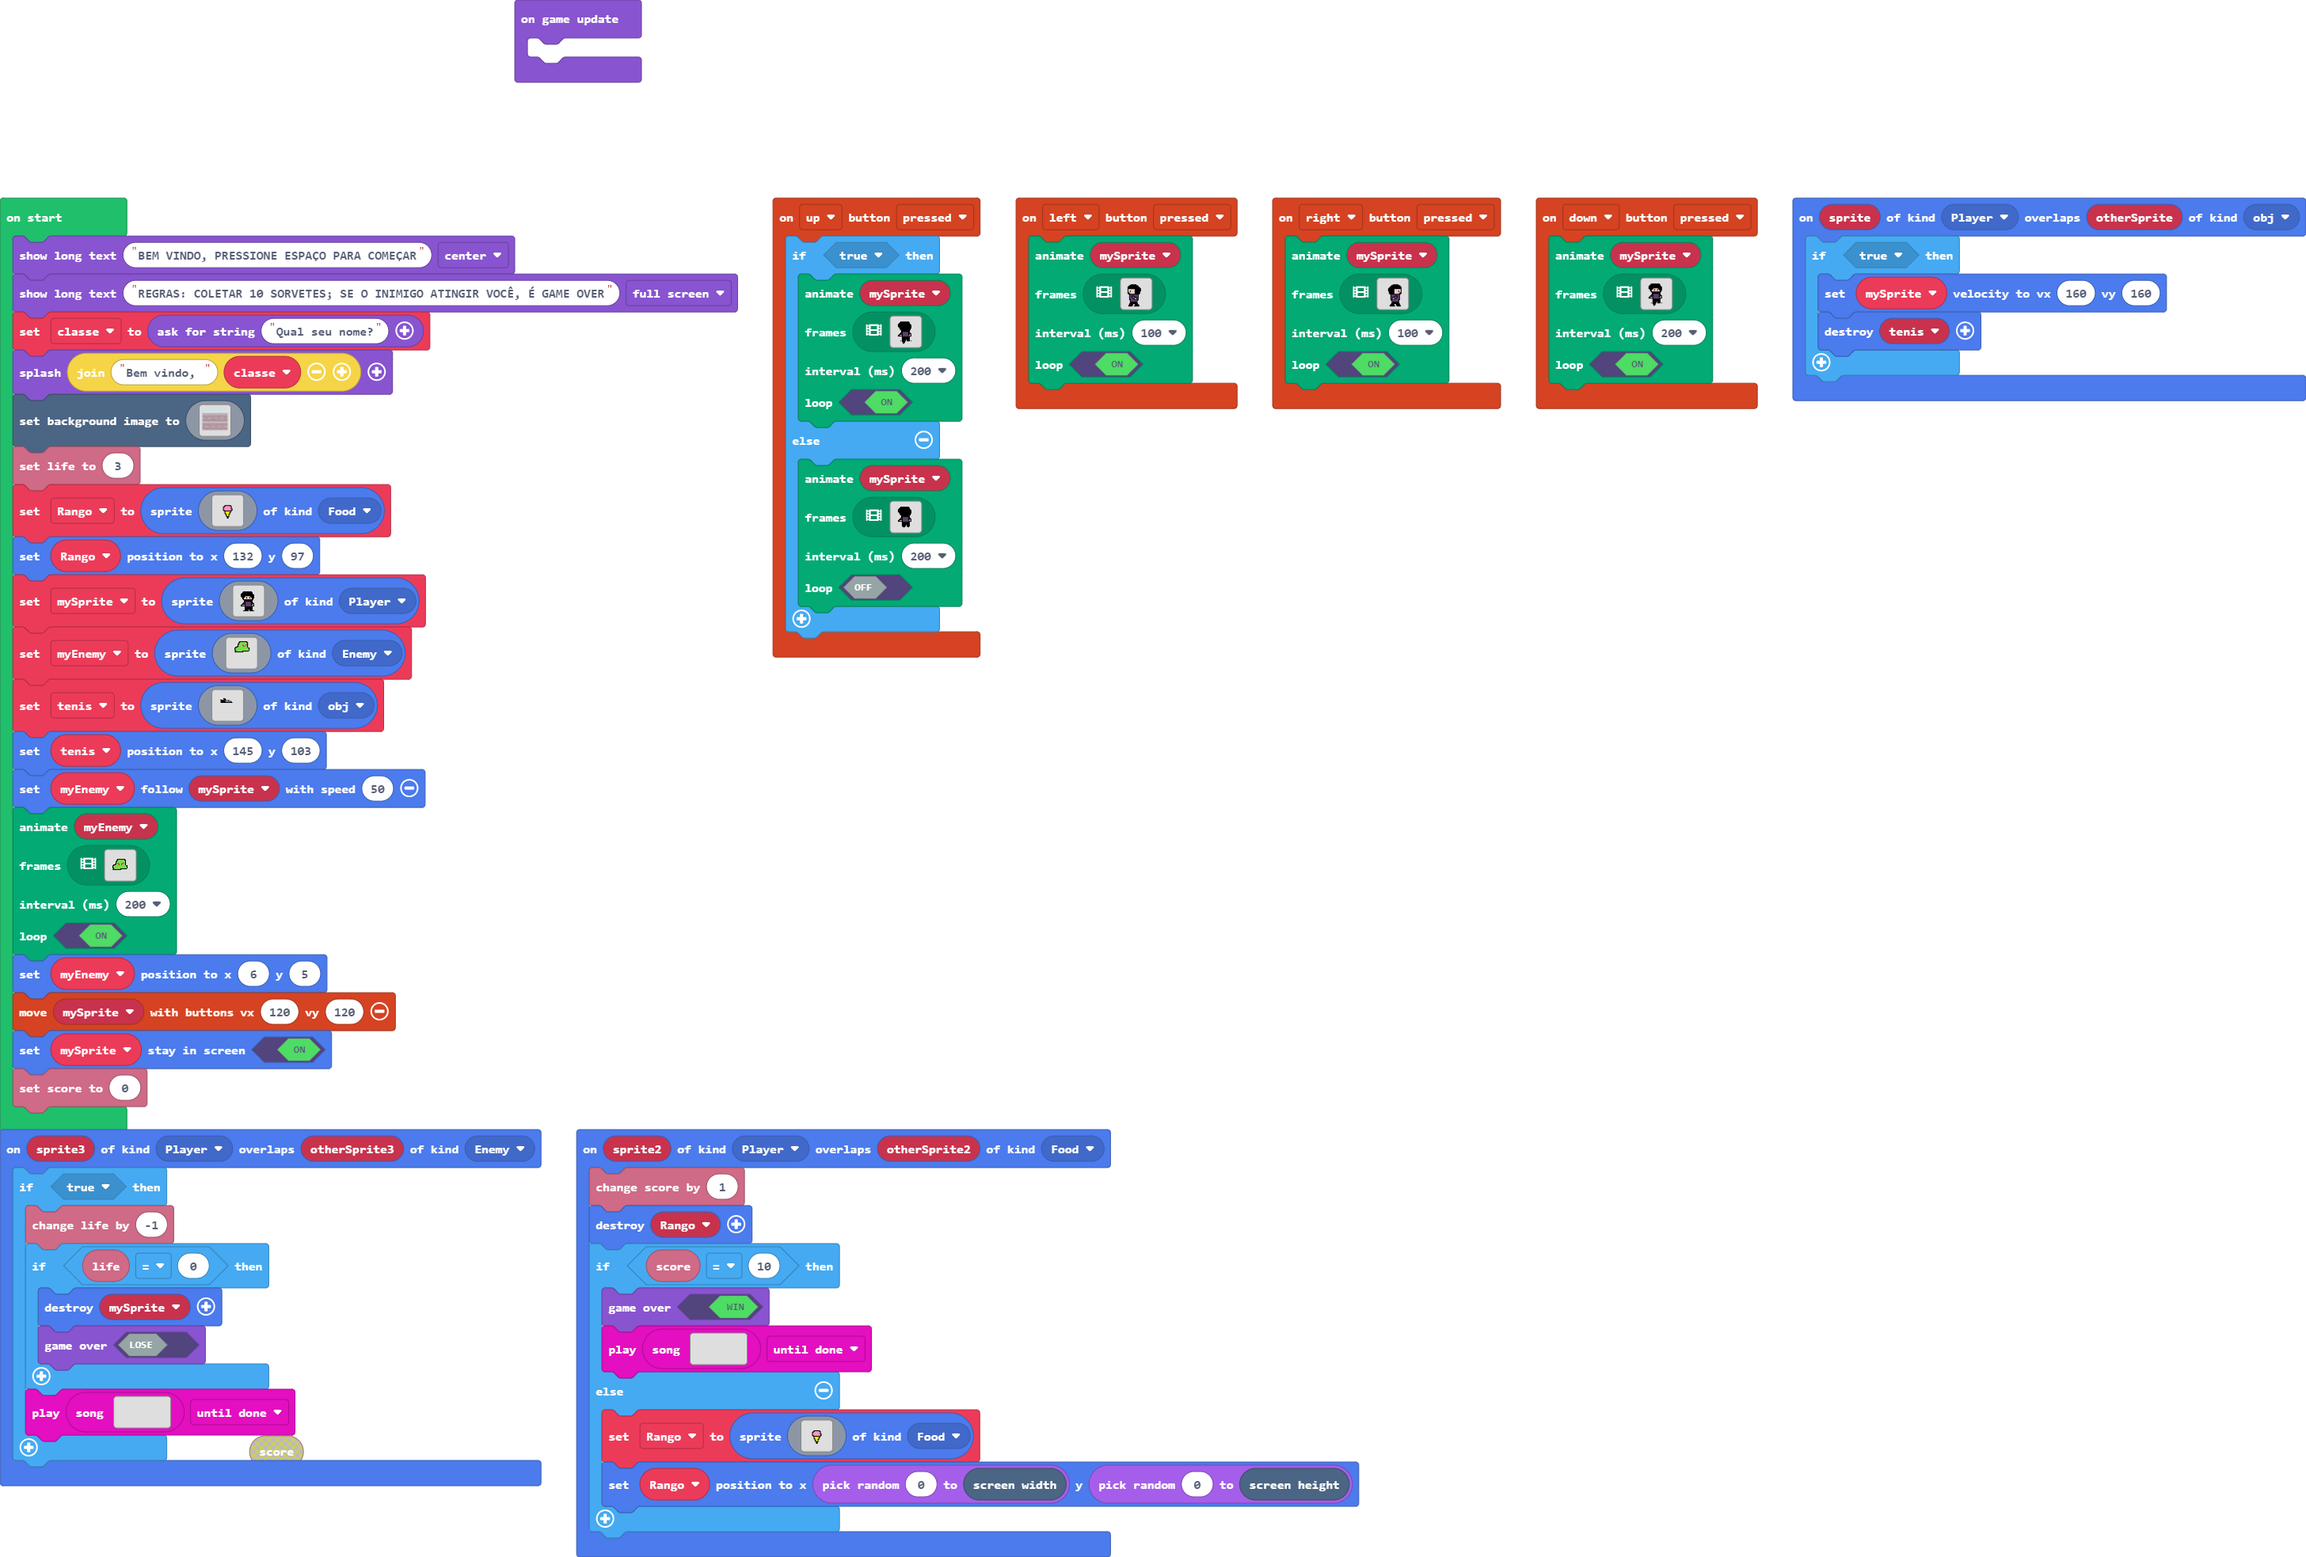
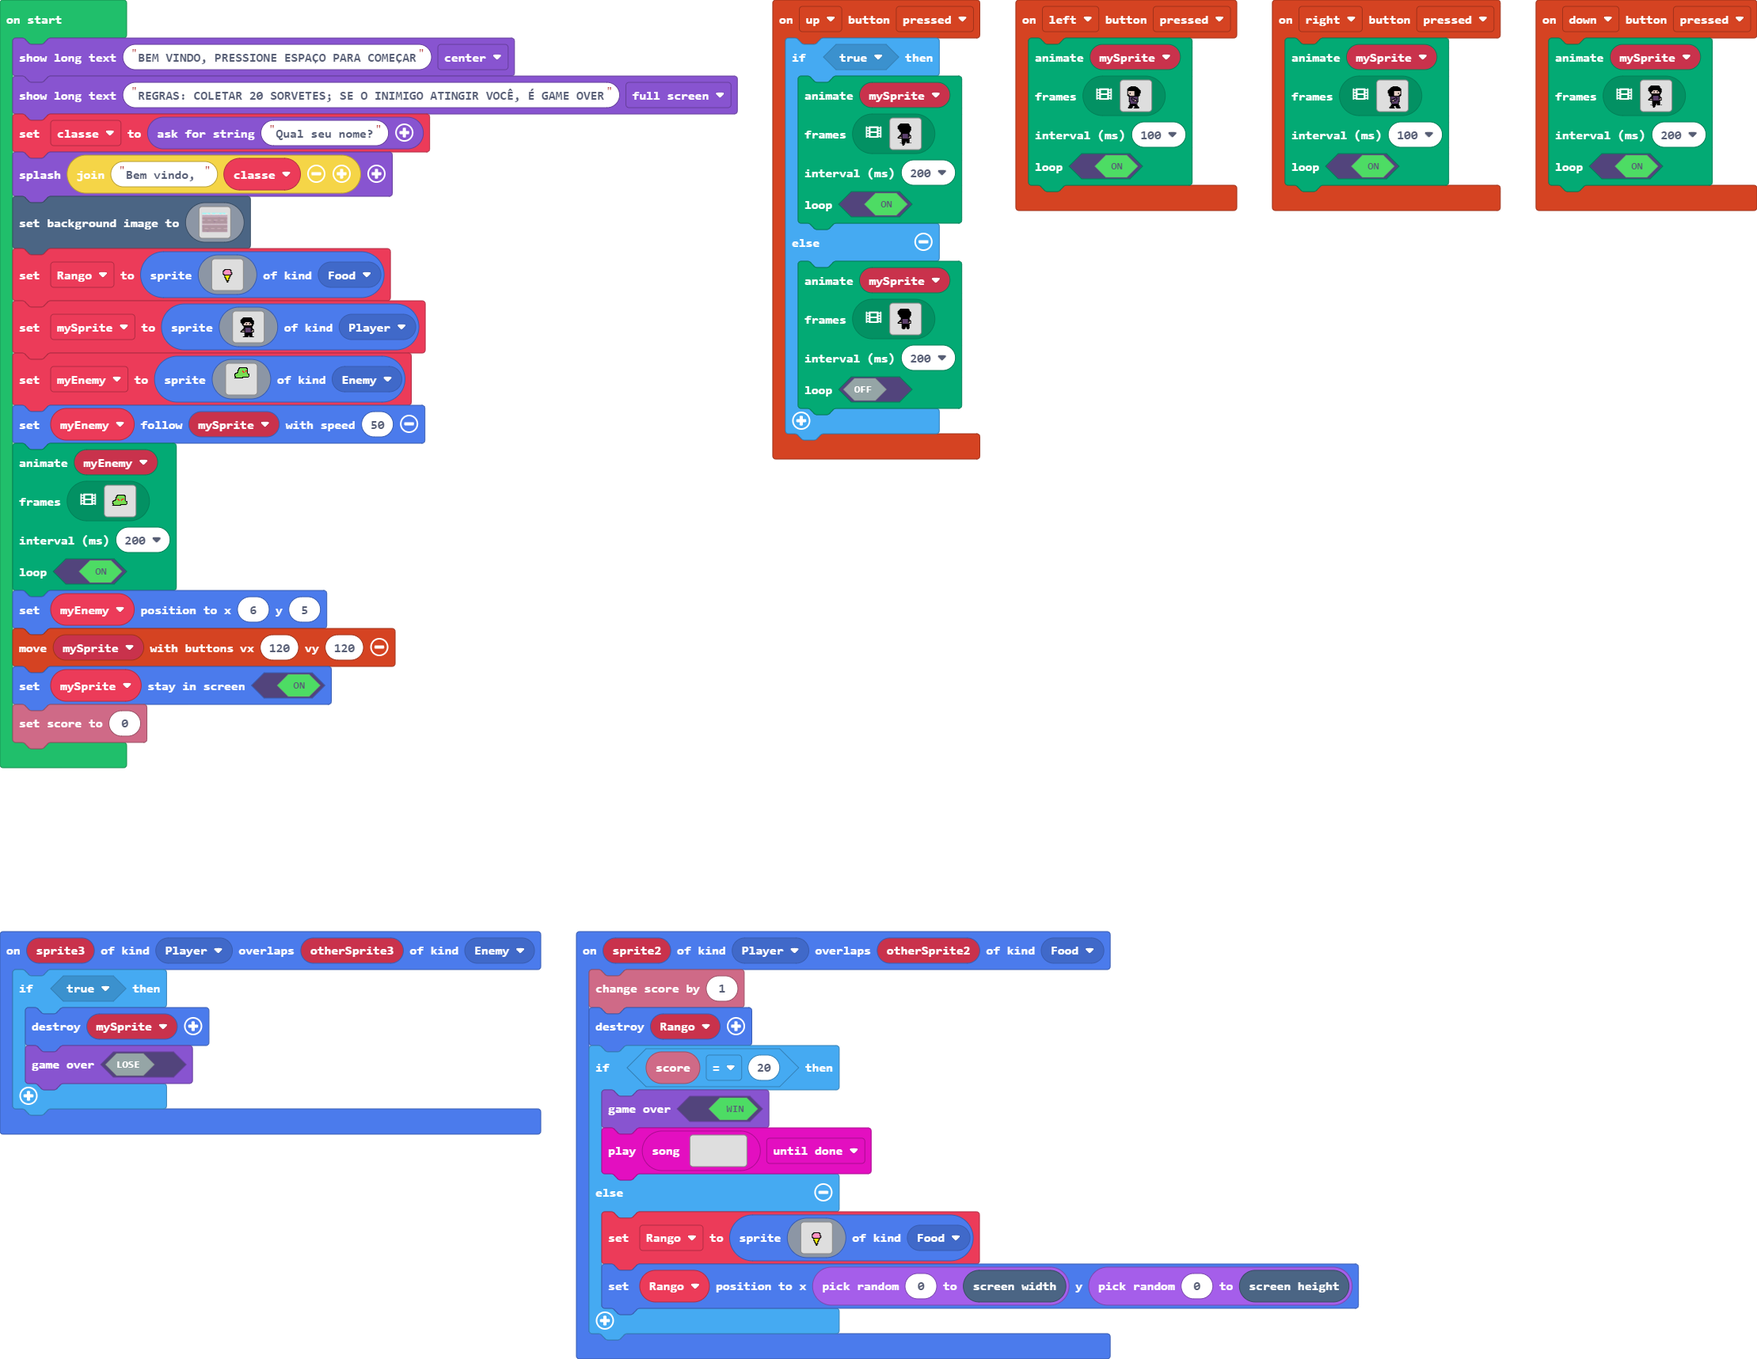
Update main.blocks, main.ts

diff --git a/main.ts b/main.ts
@@ -224,20 +224,10 @@ controller.left.onEvent(ControllerButtonEvent.Pressed, function () {
     true
     )
 })
-sprites.onOverlap(SpriteKind.Player, SpriteKind.obj, function (sprite, otherSprite) {
-    if (true) {
-        mySprite.setVelocity(160, 160)
-        sprites.destroy(tenis)
-    }
-})
 sprites.onOverlap(SpriteKind.Player, SpriteKind.Enemy, function (sprite3, otherSprite3) {
     if (true) {
-        info.changeLifeBy(-1)
-        if (info.life() == 0) {
-            sprites.destroy(mySprite)
-            game.gameOver(false)
-        }
-        music.play(music.createSong(hex`00780004080200`), music.PlaybackMode.UntilDone)
+        sprites.destroy(mySprite)
+        game.gameOver(false)
     }
 })
 controller.right.onEvent(ControllerButtonEvent.Pressed, function () {
@@ -391,7 +381,7 @@ controller.down.onEvent(ControllerButtonEvent.Pressed, function () {
 sprites.onOverlap(SpriteKind.Player, SpriteKind.Food, function (sprite2, otherSprite2) {
     info.changeScoreBy(1)
     sprites.destroy(Rango)
-    if (info.score() == 10) {
+    if (info.score() == 20) {
         game.gameOver(true)
         music.play(music.createSong(hex`00780004080200`), music.PlaybackMode.UntilDone)
     } else {
@@ -432,11 +422,10 @@ sprites.onOverlap(SpriteKind.Player, SpriteKind.Food, function (sprite2, otherSp
         Rango.setPosition(randint(0, scene.screenWidth()), randint(0, scene.screenHeight()))
     }
 })
-let tenis: Sprite = null
 let mySprite: Sprite = null
 let Rango: Sprite = null
 game.showLongText("BEM VINDO, PRESSIONE ESPAÇO PARA COMEÇAR", DialogLayout.Center)
-game.showLongText("REGRAS: COLETAR 10 SORVETES; SE O INIMIGO ATINGIR VOCÊ, É GAME OVER", DialogLayout.Full)
+game.showLongText("REGRAS: COLETAR 20 SORVETES; SE O INIMIGO ATINGIR VOCÊ, É GAME OVER", DialogLayout.Full)
 let classe = game.askForString("Qual seu nome?")
 game.splash("Bem vindo, " + classe)
 scene.setBackgroundImage(img`
@@ -561,7 +550,6 @@ scene.setBackgroundImage(img`
     bbbbbbbbbbbbbbbbbbbbbbbbbbbbbbbbbbbbbbccbbbbbbbbbbbbbbbbbbbbbbbbbbbbbbbbbbbbbbbbbbbbbbbbbbbbbbbbbbbbbbbbbbbbbbbbbbbbbbbbbbbbbbbbbbbbbbbbbbbbbbbbbbbbbbbbbbbbbbbb
     bbbbbbbbbbbbbbbbbbbbbbbbbbbbbbbbbbbbbbbbbbbbbbbbbbbbbbbbbbbbbbbbbbbbbbbbbbbbbbbbbbbbbbbbbbbbbbbbbbbbbbbbbbbbbbbbbbbbbbbbbbbbbbbbbbbbbbbbbbbbbbbbbbbbbbbbbbbbbbbb
     `)
-info.setLife(3)
 Rango = sprites.create(img`
     ................................
     ................................
@@ -596,7 +584,6 @@ Rango = sprites.create(img`
     ................................
     ................................
     `, SpriteKind.Food)
-Rango.setPosition(132, 97)
 mySprite = sprites.create(img`
     ................................
     ................................
@@ -665,41 +652,6 @@ let myEnemy = sprites.create(img`
     ................................
     ................................
     `, SpriteKind.Enemy)
-tenis = sprites.create(img`
-    ................................
-    ................................
-    ................................
-    ................................
-    ................................
-    ................................
-    .......11.......................
-    .......111fff...................
-    .......f111fff..................
-    .......fffffff1f1f..............
-    .......ffffff1f1ff1f............
-    .......fffffff1f1f1ff...........
-    .......fffffffffffffff..........
-    .......111111111111111..........
-    ................................
-    ................................
-    ................................
-    ................................
-    ................................
-    ................................
-    ................................
-    ................................
-    ................................
-    ................................
-    ................................
-    ................................
-    ................................
-    ................................
-    ................................
-    ................................
-    ................................
-    ................................
-    `, SpriteKind.obj)
-tenis.setPosition(145, 103)
 myEnemy.follow(mySprite, 50)
 animation.runImageAnimation(
 myEnemy,
@@ -810,6 +762,3 @@ myEnemy.setPosition(6, 5)
 controller.moveSprite(mySprite, 120, 120)
 mySprite.setStayInScreen(true)
 info.setScore(0)
-game.onUpdate(function () {
-	
-})
